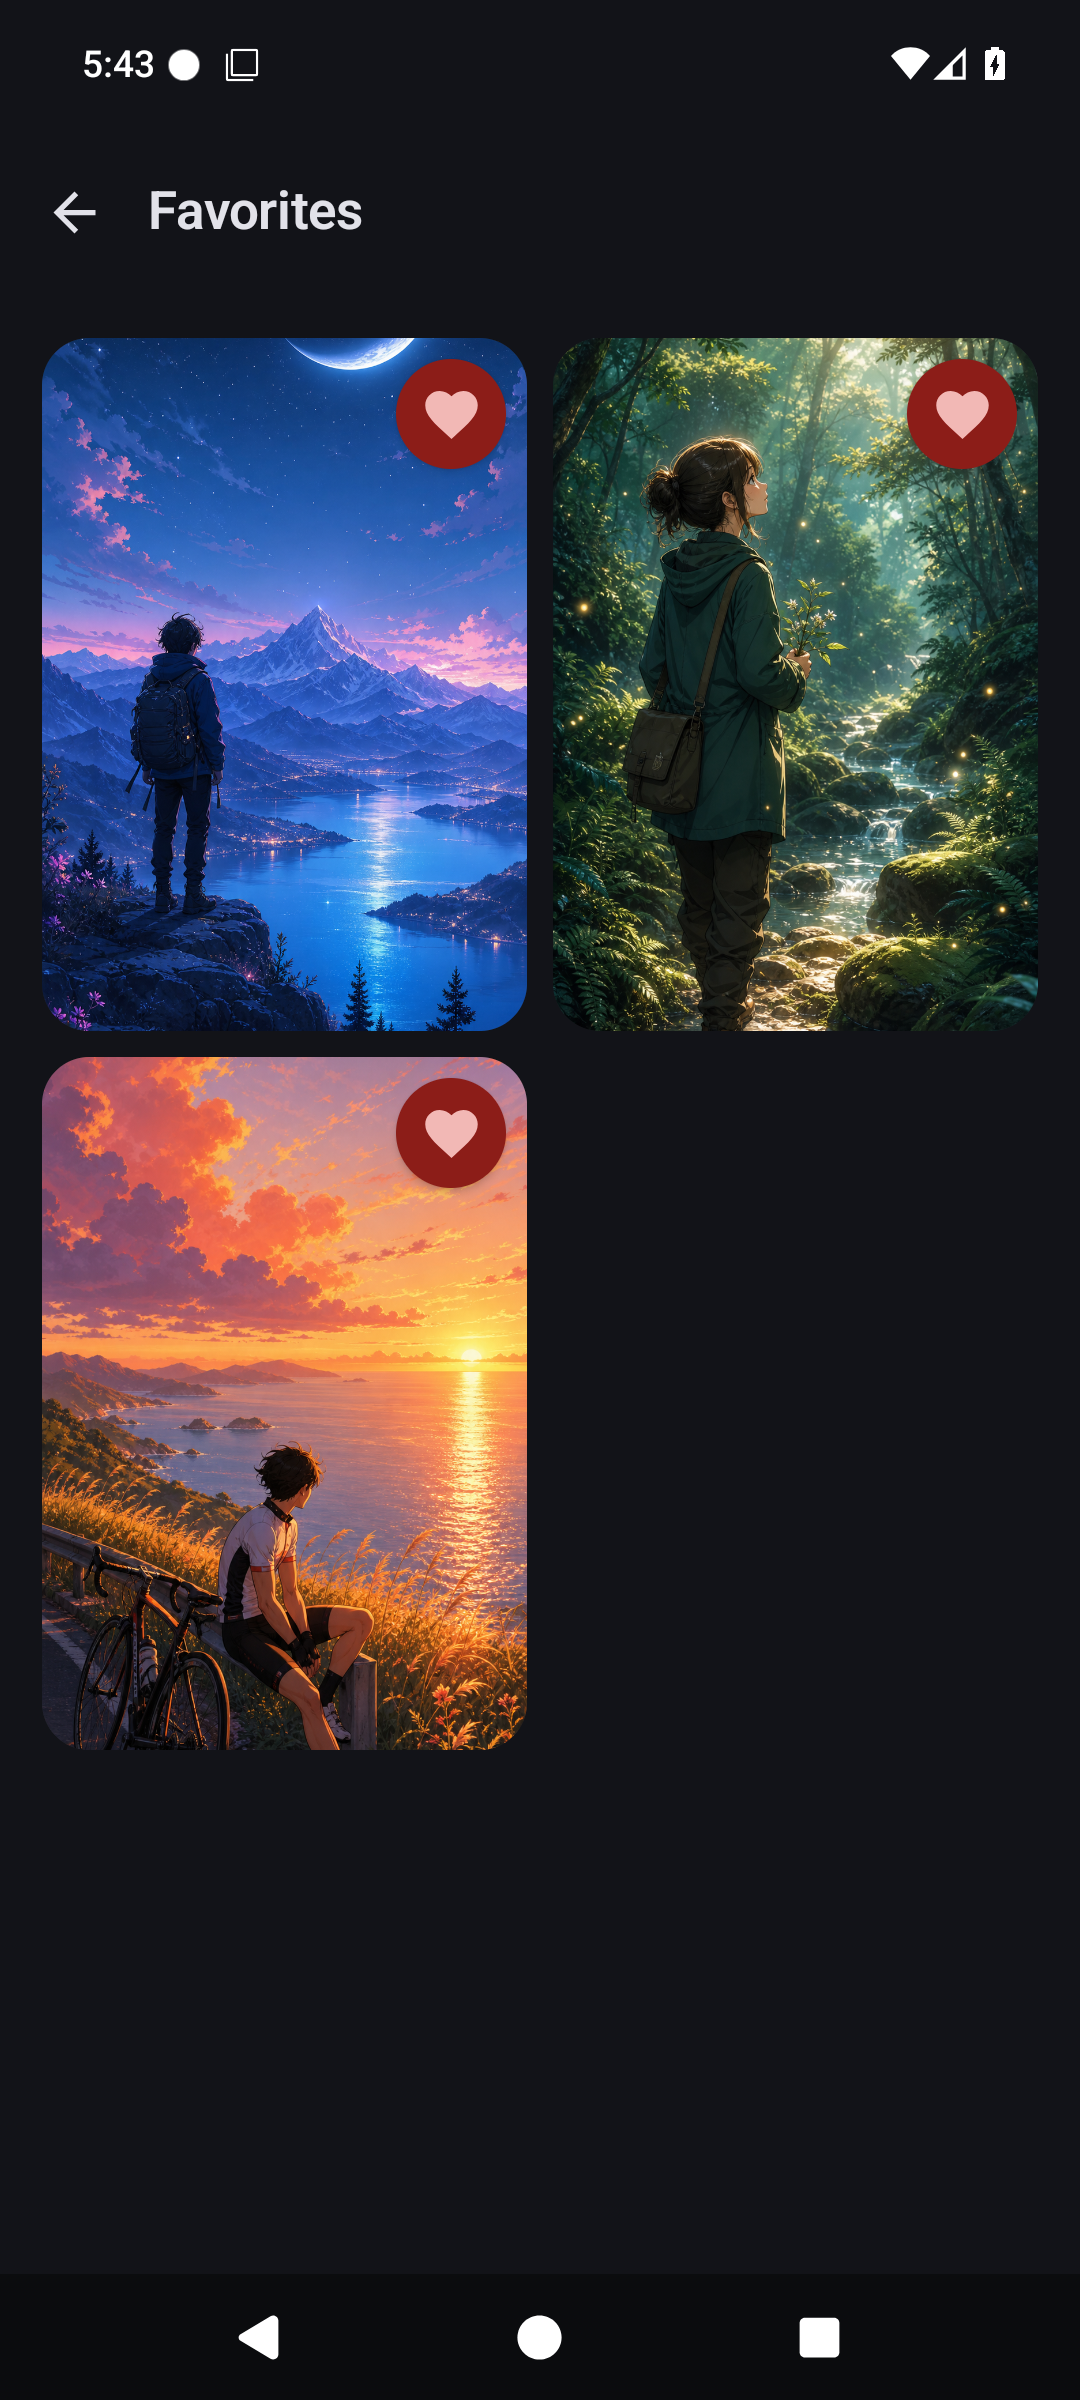
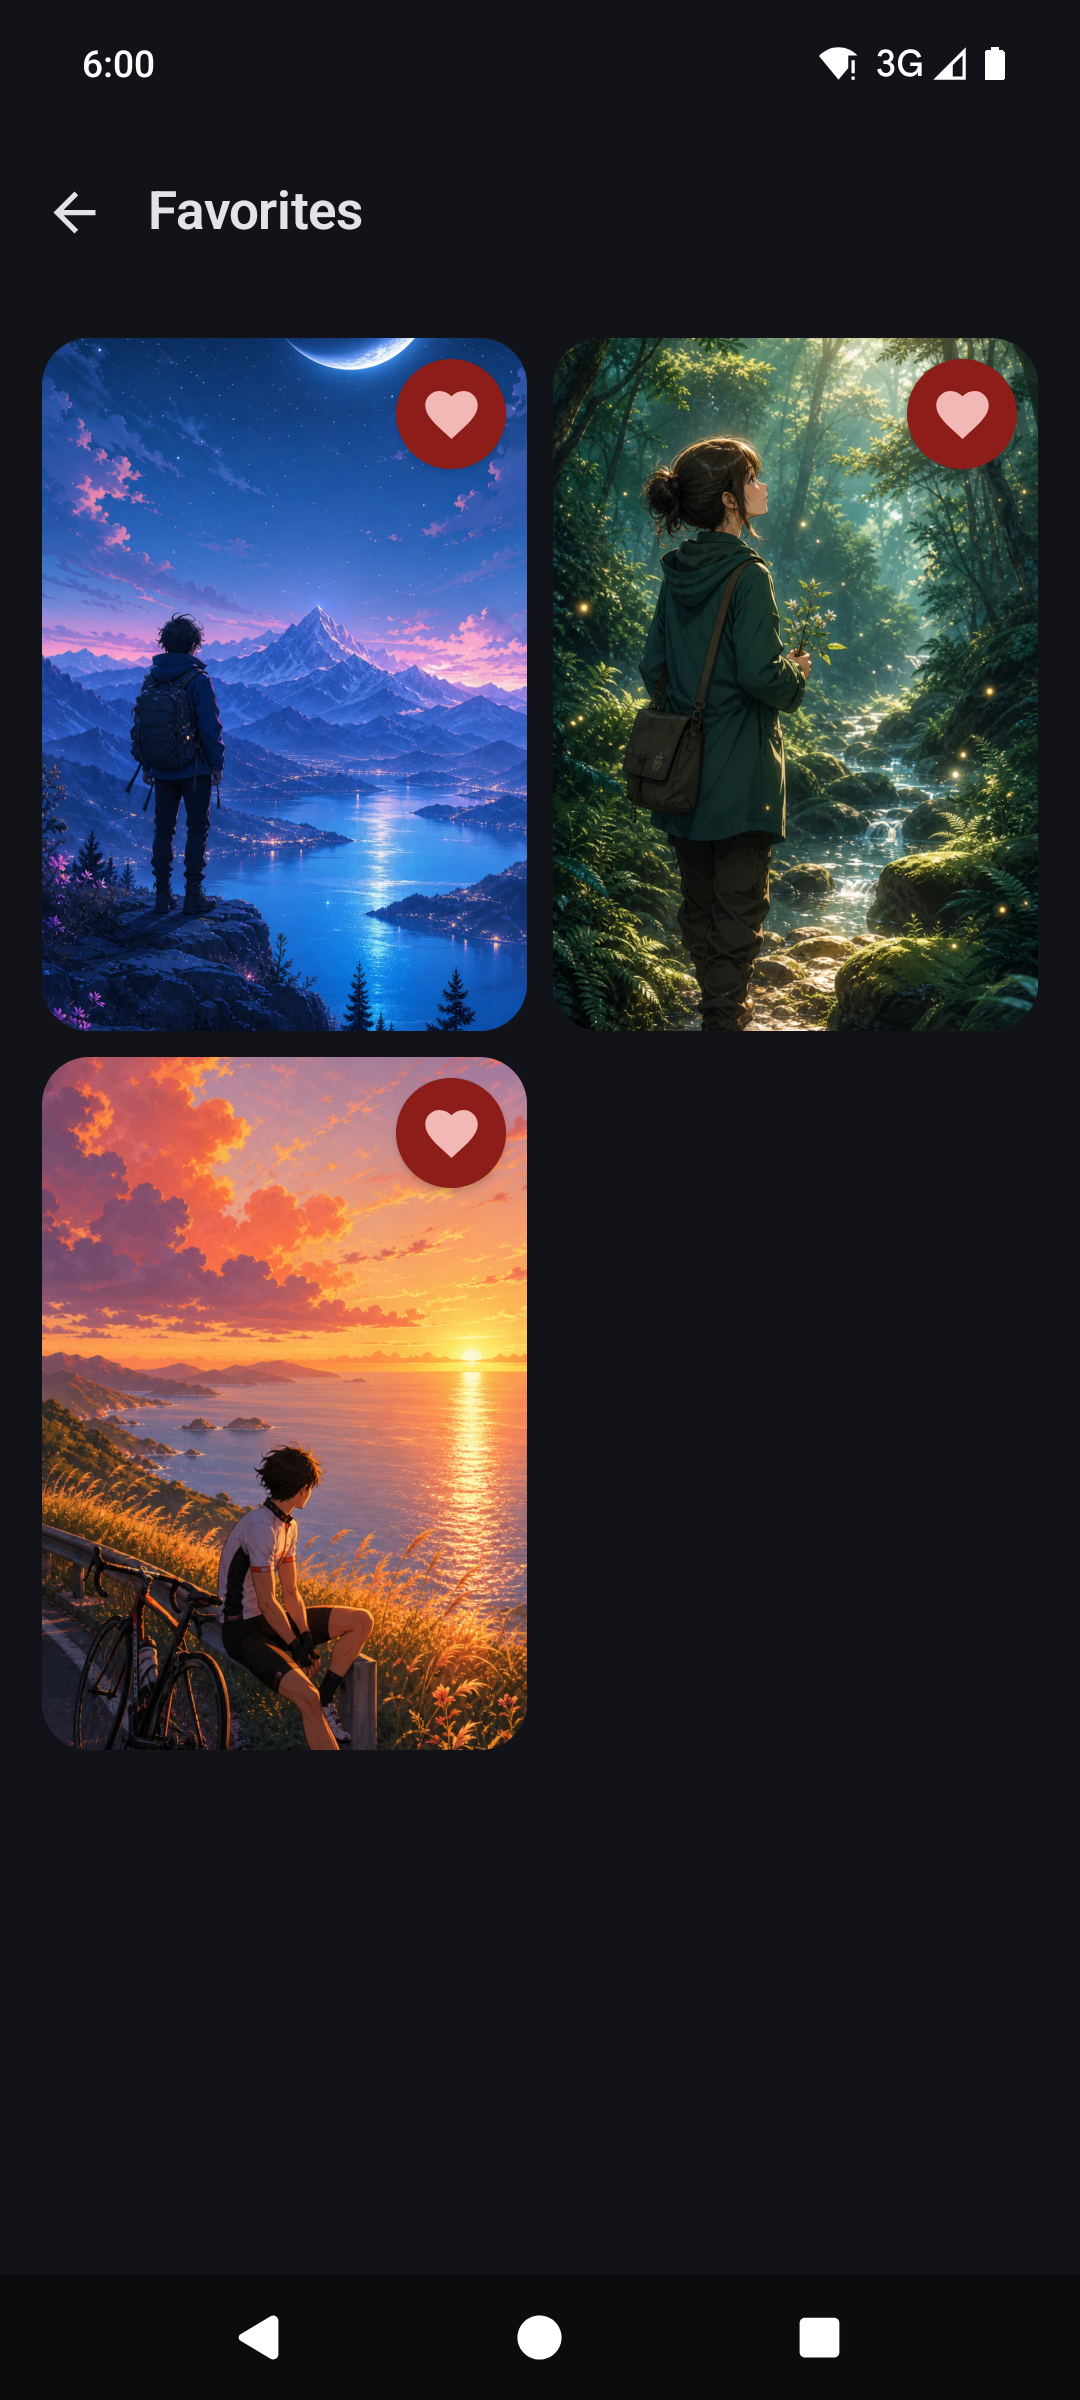
Localize the README screenshots
Recaptures all three screens in English, Japanese and Simplified Chinese
from the same staged state, so the nine shots differ only by language.

The emulator no longer had the original app data, so the wallpapers were
re-injected from the source images and the clock pinned to 6:00 with
SystemUI demo mode. Source names are user-entered text rather than
resources, so each locale gets its own.

diff --git a/README.ja.md b/README.ja.md
@@ -11,7 +11,7 @@ Wallpaper Moe はロック画面・ホーム画面、またはその両方の壁
 
 | きょう | スタジオ | お気に入り |
 | :---: | :---: | :---: |
-| ![現在の壁紙と履歴を表示する「きょう」画面](docs/today.png) | ![再利用できる壁紙ソースを並べたスタジオ画面](docs/studio.png) | ![端末内のお気に入りギャラリー](docs/favorites.png) |
+| ![現在の壁紙と履歴を表示する「きょう」画面](docs/today-ja.png) | ![再利用できる壁紙ソースを並べたスタジオ画面](docs/studio-ja.png) | ![端末内のお気に入りギャラリー](docs/favorites-ja.png) |
 
 ## Wallpaper Moe を選ぶ理由
 

diff --git a/README.zh-CN.md b/README.zh-CN.md
@@ -11,7 +11,7 @@ Wallpaper Moe 会自动更换你的锁定屏幕、主屏幕，或两者的壁纸
 
 | 今天 | 工作室 | 收藏 |
 | :---: | :---: | :---: |
-| ![显示当前壁纸与历史记录的“今天”页面](docs/today.png) | ![陈列可复用壁纸来源的工作室页面](docs/studio.png) | ![本机收藏图库](docs/favorites.png) |
+| ![显示当前壁纸与历史记录的“今天”页面](docs/today-zh.png) | ![陈列可复用壁纸来源的工作室页面](docs/studio-zh.png) | ![本机收藏图库](docs/favorites-zh.png) |
 
 ## 为什么选择 Wallpaper Moe？
 
